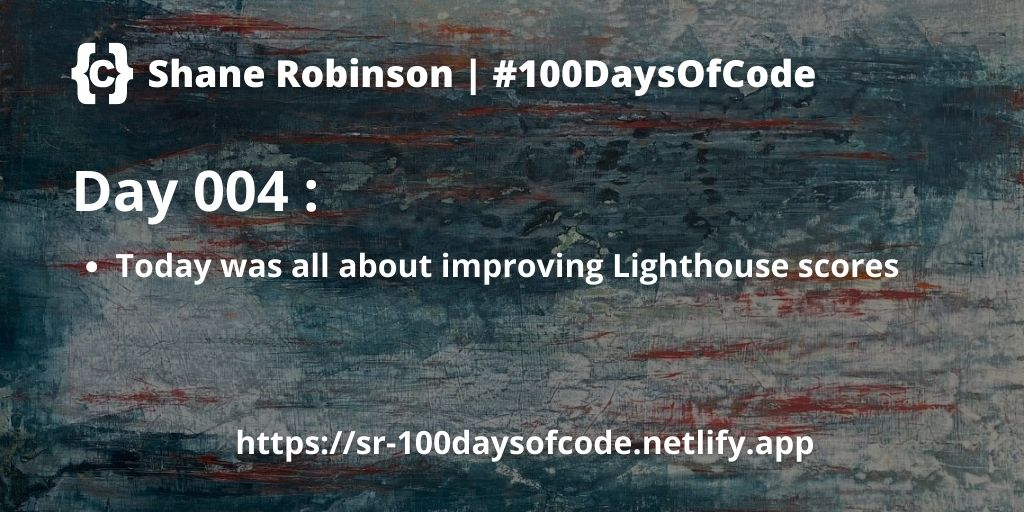
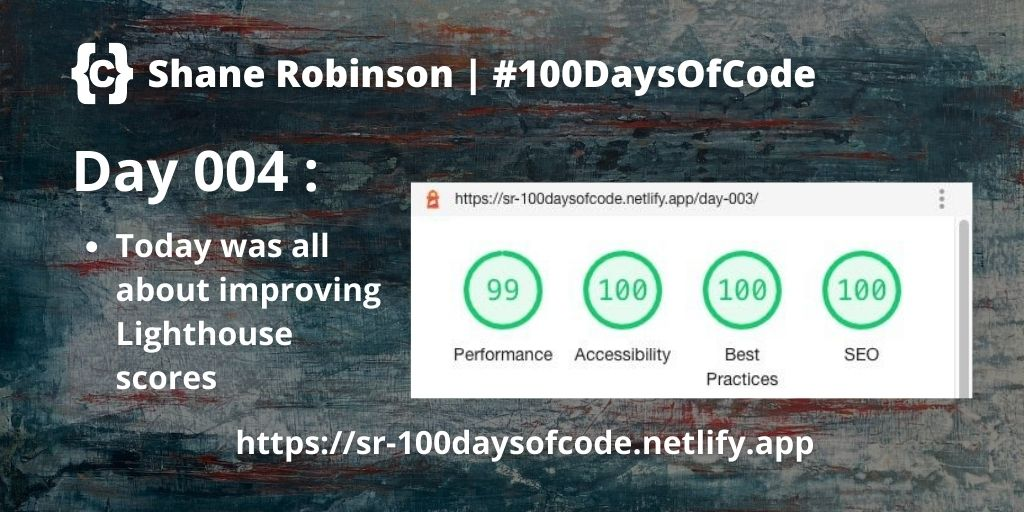
day 004 post

Changed region(s): [[0.0625, 0.2812, 0.9688, 0.7812], [0.0938, 0.625, 0.2812, 0.6875], [0.0938, 0.7188, 0.2188, 0.7812]]

diff --git a/src/posts/2020-08-13-day-004.md b/src/posts/2020-08-13-day-004.md
@@ -1,0 +1,33 @@
+---
+title: Day 004
+date: 2020-08-13T08:36:36.000Z
+excerpt: Working on Lighthouse Performance scores
+author: # default: Shane Robinson (meta.author)
+tags:
+  - 11ty
+  - lighthouse
+  - performance
+seo:
+  title: # default: title
+  description: 'Added META, OG:, & Twitter:, .md templates with Frontmatter defaults, SVG logo and favicons.' # default: meta.description
+  image: 004/004-twitter-card.jpg # syntax = 00N/image.png | default: meta.image
+---
+
+Worked on [Lighthouse Performance](https://developers.google.com/web/tools/lighthouse) scores today and still have some improvements to make.
+
+## Scores
+
+![Lighthouse before scores](/assets/images/004/before-sr-100daysofcode_netlify_app_day-003__mobile.jpg)
+
+**After scores**
+
+![Lighthouse after scores](/assets/images/004/after_sr-100daysofcode_netlify_app_day-003_mobile.jpg)
+
+## Remaining Performance Items
+
+- Figure out how to use external fonts without getting dinged for "render-blocking-resources".
+  - I’m already using "preconnect" but it's still an issue for the "Inter" font I'm using.
+  - I inlined the PrismJS syntax highlighting code.
+  - The TailwindCSS and TailwindUI generates about 88kb of css... and I don't want to inline that...yet.
+  - And Tailwind's use of PurgeCSS doesn't seem to purge the unused TailwindUI elements.
+  - **Seriously considering dropping TailwindUI due to the extra weight it brings.**
